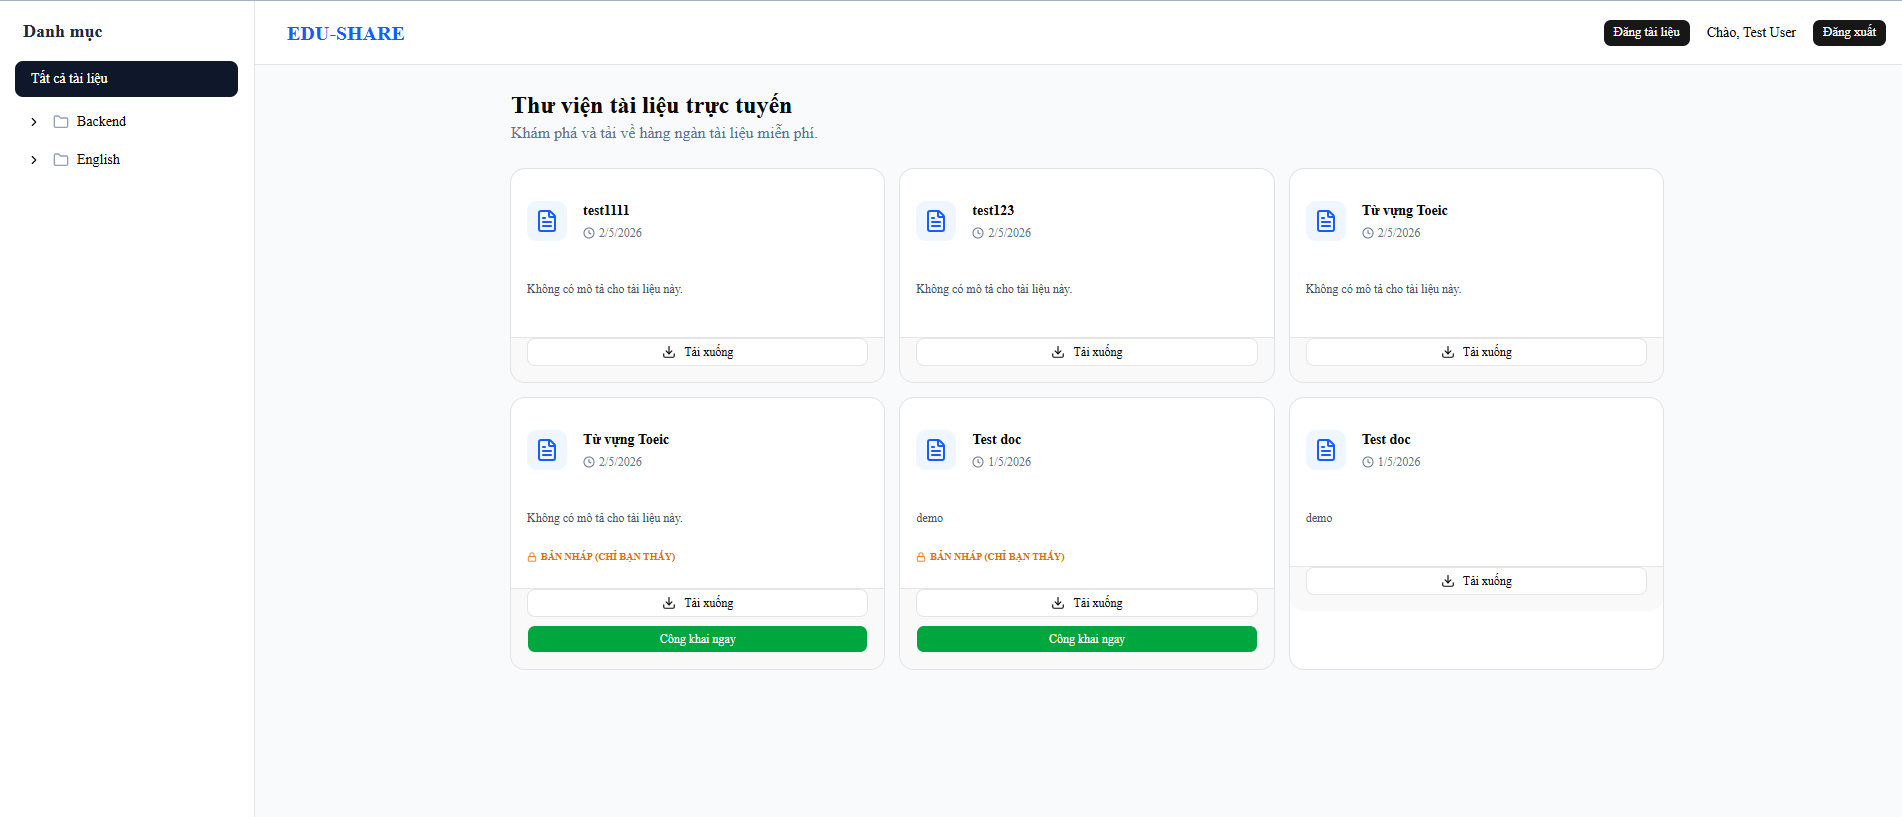
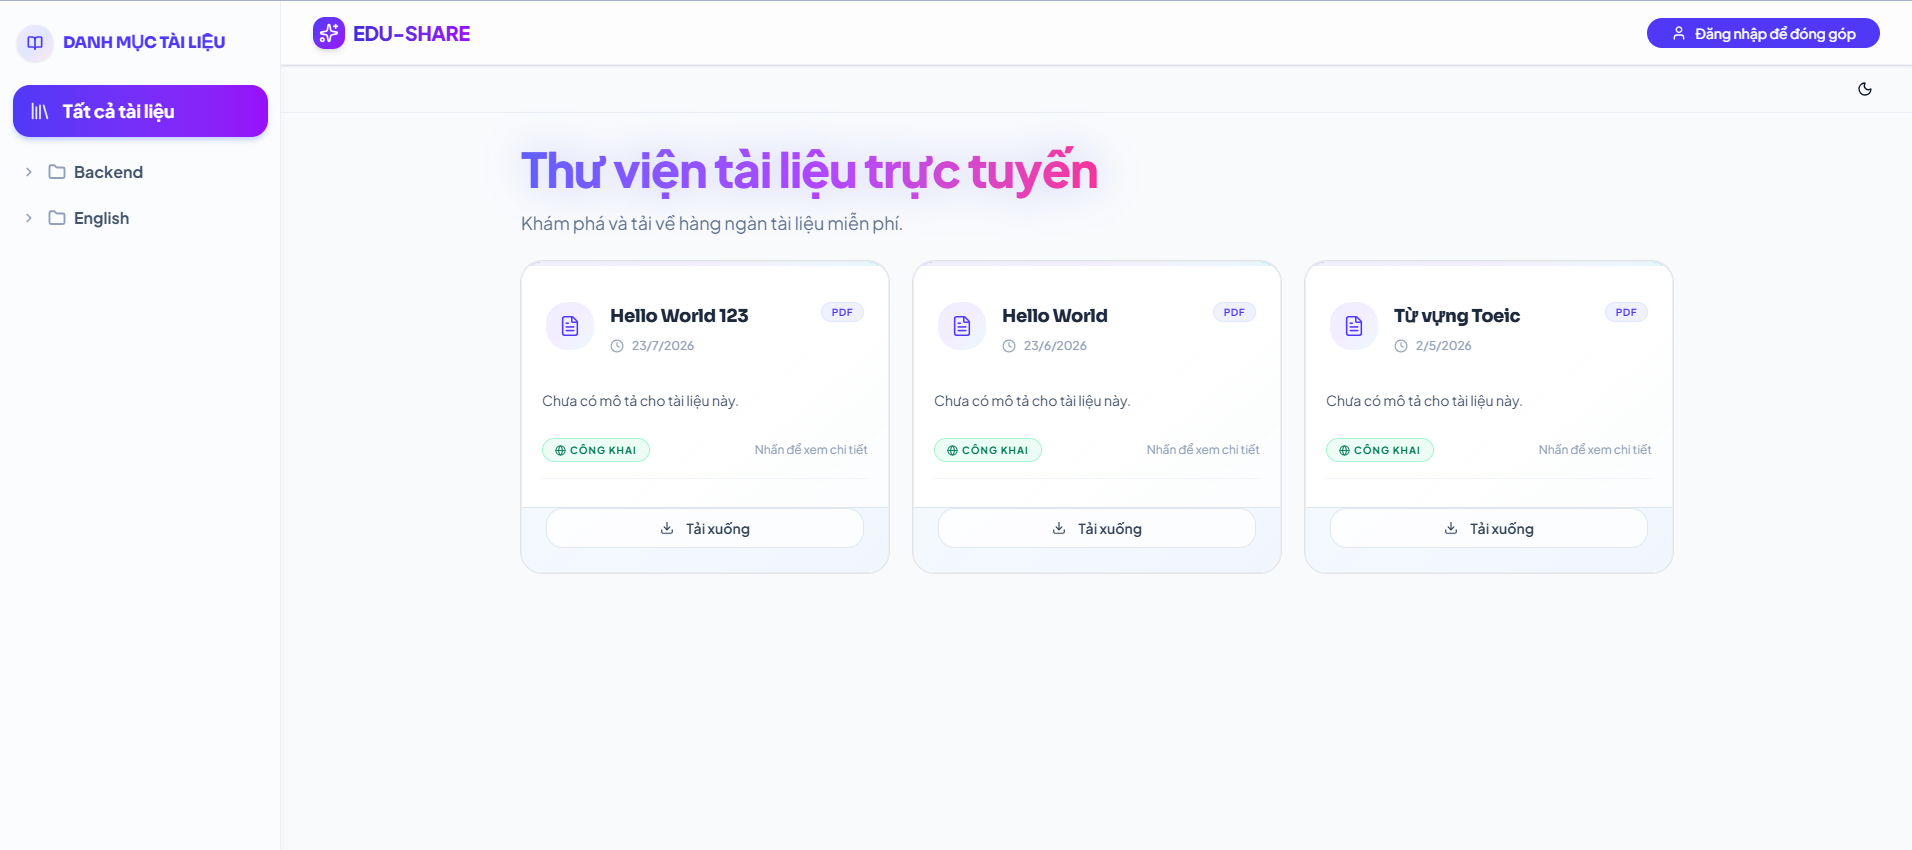
update README

diff --git a/README.md b/README.md
@@ -4,12 +4,9 @@
 
 ---
 
-## 🌐 Live Demo
-[lenguyen-edu-share.vercel.app ](https://lenguyen-edu-share.vercel.app/)
-
-**Guest/Test Account:**
-- **Email:** test123@gmail.com
-- **Password:** 123456
+## 🌐 Video Demo
+[Watch Demo Video](https://drive.google.com/file/d/1mKaDrhX-KlLExbmxGTlOuxx0FxYmF5m7/view?usp=sharing)
+> **Note:** The AWS infrastructure (ECS, RDS, ElastiCache) has been temporarily spun down to optimize personal cloud costs. Please view the demo video for the practical workflow.
 
 ## 📸 Preview
 <p align="center">
@@ -18,26 +15,18 @@
 
 ## 🏗 System Architecture
 
-The project is designed following Clean Architecture and Domain-Driven Design (DDD) principles to ensure that the core business logic remains independent of external frameworks or databases.
+The project is designed following **Clean Architecture** and **Domain-Driven Design (DDD)** principles to ensure that the core business logic remains independent of external frameworks or databases.
 
+### ☁ AWS Cloud Architecture
 <p align="center">
-  <img src="docs/system-architecture.png" width="800"/>
+  <img src="docs/aws-architecture.png" alt="AWS Architecture Diagram" width="800"/>
 </p>
 
 ### 🔄 Data & Workflow: Document Upload Flow
-
 Following Clean Architecture principles, the `UseCase` layer acts as an orchestrator, handling domain validation without depending directly on the infrastructure layer.
 
 <p align="center">
   <img src="docs/sequence-diagram.png" width="800"/>
-</p>
-
-### 🗄 Database & ERD Schema
-
-The database schema supports a recursive category system, polymorphic point history references, and a document lifecycle tracking status.
-
-<p align="center">
-  <img src="docs/ERD.png" width="800"/>
 </p>
 
 ---
@@ -61,6 +50,10 @@ The database schema supports a recursive category system, polymorphic point hist
 - Uses S3 Signed URLs  
 - Direct client-to-storage download (reduced backend load & latency)
 
+### 🎮 Gamification & User Interaction
+- Activity tracking and point/reward mechanisms to encourage active participation
+- Interactive comment system for document discussions and Q&A
+
 ### 🎨 Advanced UI/UX
 - Responsive dashboard with sidebar navigation  
 - Tree rendering for categories  
@@ -71,79 +64,37 @@ The database schema supports a recursive category system, polymorphic point hist
 ## 🛠 Tech Stack
 
 ### 🎯 Frontend
-- **Framework:** Next.js 14 (App Router)  
-- **State Management:** Zustand (with Persistence)  
-- **Data Fetching:** TanStack Query (React Query)  
-- **Styling:** Tailwind CSS + ShadcnUI  
-- **Form & Validation:** React Hook Form + Zod  
+- **Framework:** Next.js 14 (App Router)
+- **State Management & Data Fetching:** Zustand, TanStack Query
+- **Styling:** Tailwind CSS
+- **Form & Validation:** Zod
 
 ### ⚙ Backend
-- **Framework:** NestJS (TypeScript)  
-- **Architecture:** Clean Architecture + DDD + Modular Monolith  
-- **ORM:** Prisma  
-- **Database:** PostgreSQL  
-- **Storage:** MinIO / AWS S3  
-- **Auth:** Passport JWT & custom Guards  
+- **Framework:** NestJS (TypeScript), Node.js
+- **Architecture:** Clean Architecture, Domain-Driven Design (DDD)
+- **Database & ORM:** PostgreSQL, Prisma
+- **Caching:** Redis
+
+### ☁ Cloud & DevOps
+- **Infrastructure:** AWS (ECS Fargate, ECR, RDS, S3, ElastiCache, CloudFront, WAF)
+- **Containerization & CI/CD:** Docker, GitHub Actions
 
 ---
 
-## 🚀 Deployment Architecture
+## 🚀 Deployment Architecture & CI/CD
 
-EduShare is deployed using a modern cloud-native architecture:
+EduShare is deployed using a highly scalable and modern cloud-native architecture on AWS.
 
-### 🌐 Frontend
-- **Platform:** Vercel
-- **Framework:** Next.js 14 (App Router)
-- **Environment Variables:**
-  - `NEXT_PUBLIC_API_URL` → Backend API (Render)
+### 🔄 CI/CD Pipeline
+- **Automated Workflows:** Configured via GitHub Actions.
+- **Containerization:** Source code is built into Docker images and pushed to **Amazon ECR**.
+- **Deployment:** Automated rollouts to **Amazon ECS with AWS Fargate**.
 
-👉 Live: [lenguyen-edu-share.vercel.app ](https://lenguyen-edu-share.vercel.app/)
-
----
-
-### ⚙ Backend API
-- **Platform:** Render
-- **Framework:** NestJS (Node.js)
-- **Base URL:** https://edu-share-2gnt.onrender.com/api/v1
-
-Features:
-- RESTful API
-- JWT Authentication
-- Role-based Access Control (RBAC)
-- File upload handling via S3-compatible storage
-
----
-
-### 🗄 Database
-- **Provider:** Supabase PostgreSQL
-- **ORM:** Prisma
-
-Features:
-- Managed PostgreSQL database
-- Auto-scaling & backups
-- Prisma migrations for schema management
-
----
-
-### ☁ File Storage
-- **Provider:** Supabase Storage (S3-compatible API)
-- Used for:
-  - Document uploads
-  - Secure file access via signed URLs
-
-Benefits:
-- Direct-to-storage upload/download
-- Reduced backend load
-- Secure access control via signed URLs
-
-### 🔄 System Flow (End-to-End)
-
-1. User interacts with frontend (Vercel)
-2. Frontend sends API request to backend (Render)
-3. Backend validates request & processes business logic
-4. Data is stored in Supabase PostgreSQL (via Prisma)
-5. Files are uploaded to Supabase Storage (S3-compatible)
-6. Backend returns signed URLs for secure file access
+### ☁ AWS Infrastructure Overview
+- **Compute & Networking:** Deployed within an AWS VPC using an Application Load Balancer (ALB) and ECS Auto Scaling to handle dynamic workloads.
+- **Database & Caching:** **Amazon RDS** (PostgreSQL) for relational data and **Amazon ElastiCache** (Redis) for high-performance caching.
+- **Storage & Delivery:** **Amazon S3** is utilized for storing documents, generating Signed URLs for direct client upload/download. **CloudFront** is used as the CDN.
+- **Security & Monitoring:** Protected by **AWS WAF**, configuration handled via **Secrets Manager**, and system observability maintained through **CloudWatch**.
 
 ## 📂 Project Structure
 
@@ -159,6 +110,7 @@ src
 ├── modules # feature-based architecture
 │ ├── auth # authentication (login/register/logout)
 │ ├── category # category tree system
+│ ├── comment # document comments
 │ └── document # document management (upload/list)
 │
 ├── components/ui # reusable UI components (design system)
@@ -214,7 +166,7 @@ Create a `.env` file for both the frontend and backend:
 
 Use the values from `.env.example` as a reference.
 
-#### 3. Launch Infrastructure (Database & MinIO)
+#### 3. Launch Local Infrastructure (Database & Local S3-compatible Storage)
 ```bash
 docker-compose up -d
 ```
@@ -236,42 +188,10 @@ npm run dev
 
 ## 🚀 Future Improvements
 
-To further enhance EduShare into a more interactive and community-driven platform, the following features are planned:
-
-### 🎮 Gamification System (EXP & Leveling)
-Introduce an experience (EXP) system where users earn points by:
-- Uploading documents
-- Sharing knowledge
-- Engaging with the community
-
-Users can level up based on accumulated EXP
-
-Future extension:
-- Badges & achievements
-- Contribution-based ranking system
-
-👉 Goal: Encourage active participation and reward knowledge sharing.
-
-### 💬 In-Document Comments & Q&A
-Allow users to:
-- Comment directly on documents
-- Ask questions related to specific content
-
-Support threaded discussions for better context
-
-Potential features:
-- Highlight + comment on specific sections
-- Upvote helpful answers
-
-👉 Goal: Turn static documents into interactive learning resources.
-
 ### 💬 Real-time Chat System
 Provide a built-in chat system for:
 - Real-time collaboration
-
-Possible extensions:
 - Group chats per document or category
-- Integration with document sharing context
 
 👉 Goal: Enable deeper discussion beyond comments and improve collaboration.
 
